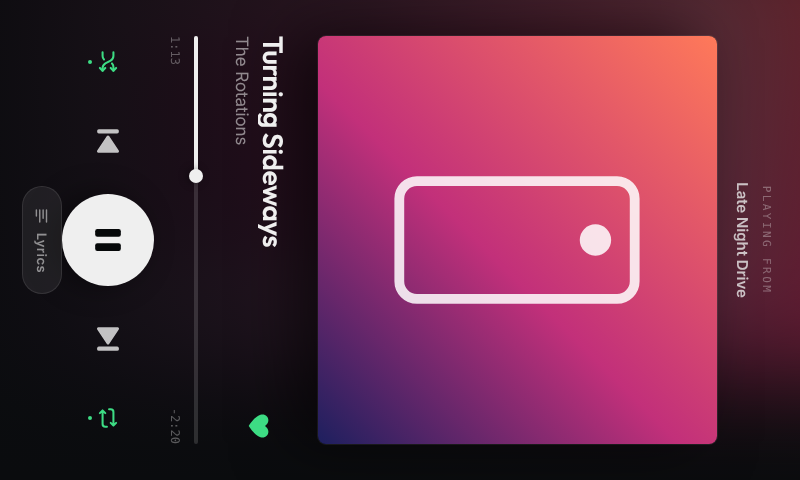
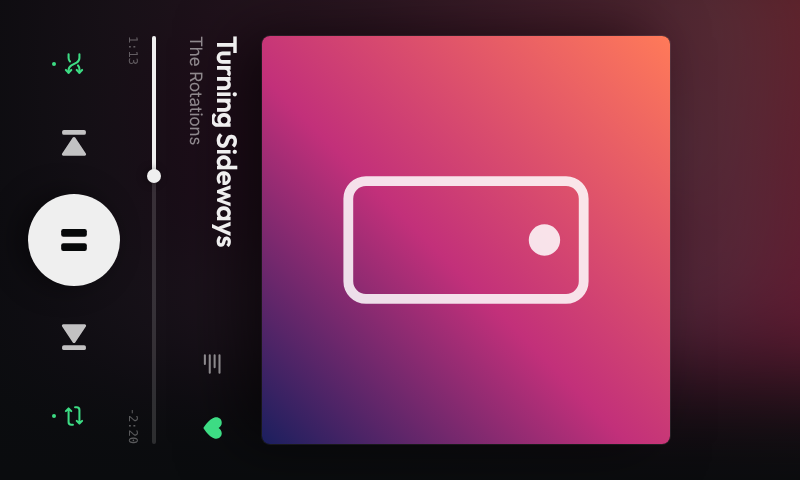
Portrait 0.3.0: controls clear of the dial, swipe to skip
Free space goes on whichever edge the dial is on, skip buttons grow to 76px, the art takes a sideways swipe for
next/previous, and the now-playing header gives up its room with lyrics moving beside the heart.

Claude-Session: https://claude.ai/code/session_01Mr46DDzdqKH7bSZKEjJAPN

diff --git a/apps/portrait/src/NowPlaying.tsx b/apps/portrait/src/NowPlaying.tsx
@@ -2,6 +2,8 @@ import { useRef, useState, type PointerEvent } from 'react';
 import type { Device } from './device';
 import { Icon } from './icons';
 
+const SWIPE_PX = 56;
+
 export function NowPlaying({ dev, scrub, openLyrics }: { dev: Device; scrub: number | null; openLyrics: () => void }) {
   const { state, artUrl, liked, act } = dev;
   const track = state?.track ?? null;
@@ -13,31 +15,26 @@ export function NowPlaying({ dev, scrub, openLyrics }: { dev: Device; scrub: num
   const canSeek = dur > 0 && pb?.setElapsedTimeAvailable !== false;
 
   return (
-    <div className="now">
-      <header className="now-head">
-        <div className="eyebrow">{state?.context?.name ? 'Playing from' : track ? 'Now playing' : 'Portrait'}</div>
-        <div className="context">{state?.context?.name ?? (track ? (track.album ?? '') : '')}</div>
-      </header>
-
-      <button className="art" onClick={openLyrics} aria-label="Show lyrics">
-        {artUrl ? (
-          <img src={artUrl} alt="" />
-        ) : (
-          <div className="art-empty">
-            <Icon name="phone" size={56} />
-            <span>{dev.conn === 'open' ? 'Play something on your phone' : 'Waiting for the Car Thing'}</span>
-          </div>
-        )}
-      </button>
+    <div className={`now ${dev.settings.rotation}`}>
+      <SwipeArt
+        url={artUrl}
+        empty={dev.conn === 'open' ? 'Play something on your phone or Mac' : 'Waiting for the Car Thing'}
+        onTap={openLyrics}
+        onNext={act.next}
+        onPrev={act.prev}
+      />
 
       <div className="meta">
         <div className="meta-text">
           <div className="title">{track?.title ?? 'Nothing playing'}</div>
-          <div className="artist">{track?.artist ?? 'Connect your phone in the bridgething app'}</div>
+          <div className="artist">{track?.artist ?? 'Connect your phone or Mac in the bridgething app'}</div>
         </div>
+        <button className="icon-btn meta-btn" onClick={openLyrics} aria-label="Lyrics">
+          <Icon name="lyrics" size={26} />
+        </button>
         {track?.isLikeSupported !== false && track && (
-          <button className={`icon-btn like ${liked ? 'on' : ''}`} onClick={act.toggleLike} aria-label="Like">
-            <Icon name={liked ? 'heartFilled' : 'heart'} size={30} />
+          <button className={`icon-btn meta-btn like ${liked ? 'on' : ''}`} onClick={act.toggleLike} aria-label="Like">
+            <Icon name={liked ? 'heartFilled' : 'heart'} size={28} />
           </button>
         )}
       </div>
@@ -54,31 +51,84 @@ export function NowPlaying({ dev, scrub, openLyrics }: { dev: Device; scrub: num
       />
 
       <div className="controls">
-        <button className={`icon-btn small ${pb?.shuffle ? 'on' : ''}`} onClick={act.toggleShuffle} aria-label="Shuffle">
+        <button className={`icon-btn side ${pb?.shuffle ? 'on' : ''}`} onClick={act.toggleShuffle} aria-label="Shuffle">
           <Icon name="shuffle" size={26} />
         </button>
-        <button className="icon-btn" onClick={act.prev} aria-label="Previous">
-          <Icon name="prev" size={40} />
+        <button className="icon-btn skip" onClick={act.prev} aria-label="Previous">
+          <Icon name="prev" size={44} />
         </button>
         <button className="play" onClick={act.togglePlay} aria-label={playing ? 'Pause' : 'Play'}>
           <Icon name={playing ? 'pause' : 'play'} size={44} />
         </button>
-        <button className="icon-btn" onClick={act.next} aria-label="Next">
-          <Icon name="next" size={40} />
+        <button className="icon-btn skip" onClick={act.next} aria-label="Next">
+          <Icon name="next" size={44} />
         </button>
         <button
-          className={`icon-btn small ${pb && pb.repeat !== 'off' ? 'on' : ''}`}
+          className={`icon-btn side ${pb && pb.repeat !== 'off' ? 'on' : ''}`}
           onClick={act.cycleRepeat}
           aria-label="Repeat">
           <Icon name="repeat" size={26} />
           {pb?.repeat === 'one' && <span className="badge">1</span>}
         </button>
       </div>
+    </div>
+  );
+}
 
-      <button className="lyrics-tab" onClick={openLyrics}>
-        <Icon name="lyrics" size={18} />
-        Lyrics
-      </button>
+/** album art that opens lyrics on a tap and skips tracks on a sideways swipe */
+function SwipeArt(props: { url: string | null; empty: string; onTap: () => void; onNext: () => void; onPrev: () => void }) {
+  const start = useRef<{ x: number; y: number } | null>(null);
+  const [dx, setDx] = useState(0);
+  const [flick, setFlick] = useState<'next' | 'prev' | null>(null);
+
+  // offsetX/Y are in the art's own coordinates, so a swipe reads the same at either rotation
+  const at = (e: PointerEvent<HTMLDivElement>) => ({ x: e.nativeEvent.offsetX, y: e.nativeEvent.offsetY });
+
+  const end = (e: PointerEvent<HTMLDivElement>) => {
+    const s = start.current;
+    start.current = null;
+    if (!s) return;
+    const p = at(e);
+    const mx = p.x - s.x;
+    const my = p.y - s.y;
+    setDx(0);
+    if (Math.abs(mx) >= SWIPE_PX && Math.abs(mx) > Math.abs(my) * 1.5) {
+      const dir = mx < 0 ? 'next' : 'prev';
+      setFlick(dir);
+      setTimeout(() => setFlick(null), 260);
+      if (dir === 'next') props.onNext();
+      else props.onPrev();
+    } else if (Math.abs(mx) < 10 && Math.abs(my) < 10) {
+      props.onTap();
+    }
+  };
+
+  return (
+    <div
+      className={`art ${flick ? `flick-${flick}` : ''}`}
+      role="button"
+      aria-label="Album art: tap for lyrics, swipe to skip"
+      style={dx ? { transform: `translateX(${dx * 0.45}px) rotate(${dx * 0.015}deg)`, transition: 'none' } : undefined}
+      onPointerDown={e => {
+        e.currentTarget.setPointerCapture(e.pointerId);
+        start.current = at(e);
+      }}
+      onPointerMove={e => {
+        if (start.current) setDx(at(e).x - start.current.x);
+      }}
+      onPointerUp={end}
+      onPointerCancel={() => {
+        start.current = null;
+        setDx(0);
+      }}>
+      {props.url ? (
+        <img src={props.url} alt="" draggable={false} />
+      ) : (
+        <div className="art-empty">
+          <Icon name="phone" size={56} />
+          <span>{props.empty}</span>
+        </div>
+      )}
     </div>
   );
 }

diff --git a/apps/portrait/src/index.css b/apps/portrait/src/index.css
@@ -144,40 +144,47 @@ button {
   height: 100%;
   display: flex;
   flex-direction: column;
-  padding: 26px 36px 22px;
   box-sizing: border-box;
 }
+/* the physical dial sits just past one short edge of the screen; keep every control well clear of it */
+.now.dial-bottom {
+  justify-content: flex-start;
+  padding: 22px 36px 0;
+}
+.now.dial-top {
+  justify-content: flex-end;
+  padding: 0 36px 28px;
+}
 
-.now-head {
-  text-align: center;
-  height: 44px;
-}
-.eyebrow {
-  font-family: var(--font-mono);
-  font-size: 11px;
-  letter-spacing: 0.22em;
-  text-transform: uppercase;
-  color: var(--color-dim);
-}
-.context {
-  margin-top: 4px;
-  font-size: 15px;
-  font-weight: 600;
-  color: var(--color-near);
-  white-space: nowrap;
-  overflow: hidden;
-  text-overflow: ellipsis;
-}
 
 .art {
   display: block;
-  margin: 14px auto 0;
+  margin: 0 auto;
+  touch-action: none;
+  cursor: pointer;
+  transition: transform 220ms cubic-bezier(0.2, 0.8, 0.2, 1);
   width: 408px;
   height: 408px;
   border-radius: 8px;
   overflow: hidden;
   background: var(--color-screen);
   box-shadow: 0 24px 60px rgb(0 0 0 / 0.55), 0 0 0 1px var(--color-rule);
+}
+.art img,
+.art-empty {
+  pointer-events: none;
+}
+.art.flick-next {
+  animation: flick-next 260ms ease;
+}
+.art.flick-prev {
+  animation: flick-prev 260ms ease;
+}
+@keyframes flick-next {
+  40% { transform: translateX(-28px); opacity: 0.65; }
+}
+@keyframes flick-prev {
+  40% { transform: translateX(28px); opacity: 0.65; }
 }
 .art img {
   width: 100%;
@@ -196,7 +203,7 @@ button {
 }
 
 .meta {
-  margin-top: 24px;
+  margin-top: 14px;
   display: flex;
   align-items: center;
   gap: 12px;
@@ -240,15 +247,19 @@ button {
   transform: scale(0.9);
   background: var(--color-neutral-soft);
 }
-.icon-btn.small {
-  width: 52px;
-  height: 52px;
+.icon-btn.side {
+  width: 56px;
+  height: 56px;
   color: var(--color-dim);
+}
+.icon-btn.skip {
+  width: 76px;
+  height: 76px;
 }
 .icon-btn.on {
   color: var(--color-ok);
 }
-.icon-btn.small.on::after {
+.icon-btn.side.on::after {
   content: '';
   position: absolute;
   bottom: 6px;
@@ -257,11 +268,17 @@ button {
   border-radius: 99px;
   background: currentColor;
 }
-.like {
+.meta-btn {
   flex: none;
-  width: 56px;
-  height: 56px;
+  width: 52px;
+  height: 52px;
+  color: var(--color-soft);
+}
+.like {
   margin-right: -10px;
+}
+.like.on {
+  color: var(--color-ok);
 }
 .badge {
   position: absolute;
@@ -278,7 +295,7 @@ button {
 }
 
 .progress {
-  margin-top: 10px;
+  margin-top: 6px;
 }
 .bar {
   height: 36px;
@@ -324,7 +341,7 @@ button {
 }
 
 .controls {
-  margin-top: 14px;
+  margin-top: 6px;
   display: flex;
   align-items: center;
   justify-content: space-between;
@@ -344,22 +361,6 @@ button {
   transform: scale(0.93);
 }
 
-.lyrics-tab {
-  margin: auto auto 0;
-  display: flex;
-  align-items: center;
-  gap: 8px;
-  padding: 10px 20px;
-  border-radius: 99px;
-  font: 600 13px var(--font-body);
-  letter-spacing: 0.04em;
-  color: var(--color-soft);
-  background: var(--color-neutral-soft);
-  border: 1px solid var(--color-rule);
-}
-.lyrics-tab:active {
-  background: var(--color-rule-strong);
-}
 
 /* ---------- lyrics ---------- */
 

diff --git a/apps/portrait/README.md b/apps/portrait/README.md
@@ -17,7 +17,7 @@ the right place because the browser hit-tests through the transform.
 | Back (hold ~1 s)        | Flip orientation (dial at top ↔ dial at bottom)       |
 | Preset 1 / 2 / 3 / 4    | Previous / play-pause / next / like                   |
 | M                       | Untouched, so your launcher gesture still works       |
-| Touch                   | All on-screen buttons, drag the progress bar, tap the artwork for lyrics, tap a lyric line to jump to it |
+| Touch                   | All on-screen buttons, swipe the art left/right for next/previous, tap the art for lyrics, drag the progress bar, tap a lyric line to jump to it |
 
 ## Settings (companion app → Portrait → settings)
 

diff --git a/apps/portrait/CHANGELOG.md b/apps/portrait/CHANGELOG.md
@@ -1,5 +1,12 @@
 # portrait
 
+## 0.3.0
+
+Easier to reach. The controls now keep well clear of the dial: with the dial at the bottom they sit higher on the
+screen, with open space where the knob is, and with the dial at the top they sit lower. Skip buttons are bigger.
+Swipe the album art left for the next song or right for the previous one; a tap still opens lyrics. The
+"Now playing" header is gone to make room, and lyrics moved to a button next to the heart.
+
 ## 0.2.1
 
 The screen now turns off when your Mac goes fully to sleep, like closing the lid with a monitor still powering the
